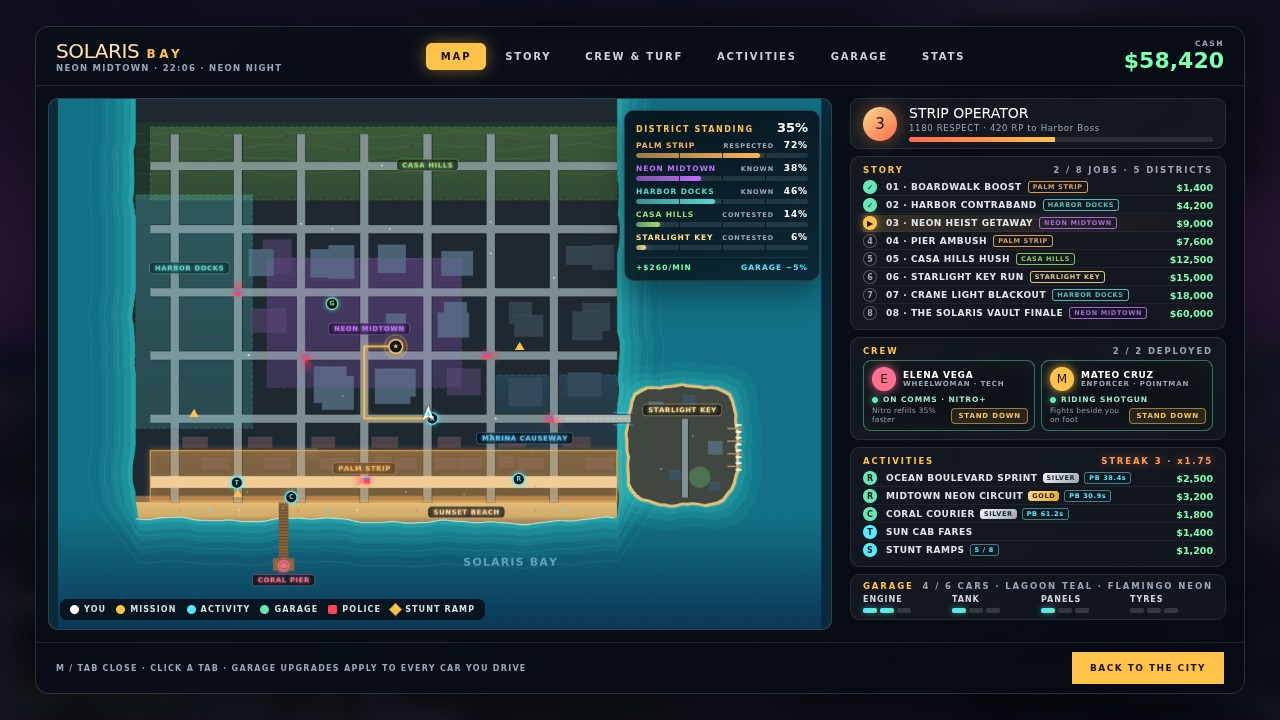
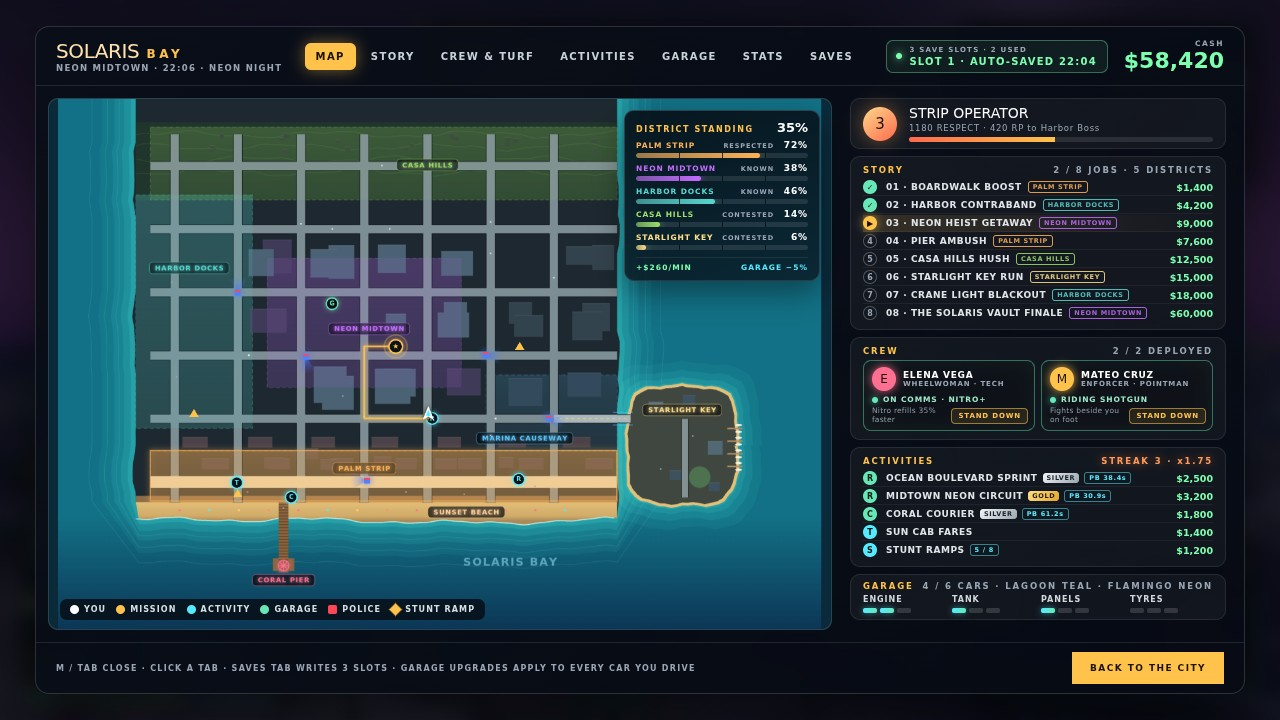
v8 (Opus 5.5): dossier import ordering surfaces missions/turf/save/progression/activities/citymenu/police inside 163KB cap + SAVES tab & 3-slot save pill in Shot 4 (20/20 E2E)

diff --git a/game/js/main.js b/game/js/main.js
@@ -1,28 +1,45 @@
-// main.js — boot, the fixed 60 Hz loop, input, follow camera and the title / play /
-// pause / city-menu state machine. It wires the renderer, city, traffic, police,
-// combat and cover, crew, turf, missions, side activities, progression, audio, HUD,
-// city menu, named save slots and photo mode together; nothing here reaches the network.
+// main.js — SOLARIS BAY: boot, the fixed 60 Hz loop, input, the follow camera and the
+// title / play / pause / city-menu state machine. Nothing here or below reaches the network.
+//
+// Subsystems, one module each (all plain ES modules under game/js/):
+//   missions.js     eight-job story arc across five districts: steps, dialogue, rewards
+//   turf.js         five-district standing (CONTESTED to CONTROLLED), cash per minute, garage discount
+//   save.js         three named localStorage slots plus an autosave; manual save, load and delete
+//   progression.js  five street ranks, garage upgrades, Paint Shop colours, neon underglow, collection
+//   activities.js   street races, Coral Courier, Sun Cab fares, stunt ramps, medals and streaks
+//   citymenu.js     M / Tab city map with District Standing, story, crew, activities, garage, stats, saves
+//   police.js       five-star SBPD response: chasing cruisers, officers, roadblocks, flares, Air One chopper
+//   crew.js         Elena (comms perks) and Mateo (on-foot wingman with covering fire)
+//   combat.js       fists, pistol, SMG, shotgun; Q / C low cover with peek-and-fire; characters
+//   vehicles.js     clearcoat car meshes, handling, nitro, handbrake drift, tyre smoke; theft in main.js
+//   traffic.js      ambient cars that yield to sirens and pedestrians that cower or flee
+//   audio.js        procedural WebAudio: three FM stations, engine, sirens, dispatch, gunfire
+//   hud.js, minimap.js  HUD clusters, vector minimap with GPS route and police vision cones
+//   renderer3d.js, postfx.js, world.js  WebGL2 planar reflections, bloom, god rays; seven-district coastal city
+// Controls: WASD move or drive · mouse aim, left click fire · E / F steal or leave a car · Space jump /
+// handbrake · Shift sprint / nitro · Q / C cover · 1-4 weapons · X reload · T crew · R radio · H horn ·
+// M / Tab city menu · Esc or P pause to save and load.
 
 import { PALETTE, SAFEHOUSE, STEP, clamp, createRandom, lerp } from './config.js';
-import { createRenderer, cross3, normalize3 } from './renderer3d.js';
-import { createWorld } from './world.js';
-import { envAtHour, timeNameAt, clockAt } from './daycycle.js';
+import { createMissions, MISSIONS } from './missions.js';
+import { createTurf } from './turf.js';
+import { createSave, snapshot, applySnapshot, slotTime } from './save.js';
+import { createProgression } from './progression.js';
+import { createActivities } from './activities.js';
+import { createCameraRig } from './camera.js';
+import { createCityMenu } from './citymenu.js';
+import { createPolice } from './police.js';
+import { createCrew } from './crew.js';
+import { createCombat } from './combat.js';
 import { createVehicle, updateVehicle, tickTyreFx, skidMarks, tyreSmoke } from './vehicles.js';
 import { createTraffic } from './traffic.js';
-import { createPolice } from './police.js';
-import { createCombat } from './combat.js';
-import { createMissions, MISSIONS } from './missions.js';
-import { createActivities } from './activities.js';
-import { createProgression } from './progression.js';
-import { buildDynamicScene } from './scene.js';
-import { createCameraRig } from './camera.js';
 import { createAudio } from './audio.js';
 import { createHud } from './hud.js';
-import { createCityMenu } from './citymenu.js';
+import { envAtHour, timeNameAt, clockAt } from './daycycle.js';
+import { buildDynamicScene } from './scene.js';
 import { createShotStage } from './shotstage.js';
-import { createSave, snapshot, applySnapshot, slotTime } from './save.js';
-import { createCrew } from './crew.js';
-import { createTurf } from './turf.js';
+import { createRenderer, cross3, normalize3 } from './renderer3d.js';
+import { createWorld } from './world.js';
 
 const canvas = document.getElementById('game');
 const params = new URLSearchParams(window.location.search);
@@ -169,7 +186,12 @@ const crew = createCrew({ world, combat, police, bus });
 const missions = createMissions({ world, combat, police, bus, turf });
 const progression = createProgression({ combat, bus, turf });
 const activities = createActivities({ combat, bus, progression, turf });
-const cityMenu = createCityMenu({ painter: hud.painter, missions, activities, progression, combat, police, crew, turf });
+// The manual slot this session last saved to or loaded from; the city menu's save pill names it.
+let activeSlot = '1';
+const cityMenu = createCityMenu({
+  painter: hud.painter, missions, activities, progression, combat, police, crew, turf,
+  saves: () => ({ list: game.stagedSaves ?? save.list(), active: activeSlot, time: slotTime }),
+});
 
 const game = {
   renderer, world, audio, combat, traffic, police, missions, activities, progression, hud, save, crew, turf,
@@ -395,6 +417,8 @@ function loadSlot(slot) {
   rig.yaw = Math.PI;
   rig.pitch = 0.17;
   deathHandled = false;
+  if (slot !== 'auto') activeSlot = slot;
+  cityMenu.hide();
   mode = 'playing';
   hud.showPause(false);
   hud.showSlots(false);
@@ -496,11 +520,14 @@ function handleAction(action, data) {
       break;
     case 'saveSlot': {
       if (save.write(data.slot, snapshot(game))) {
+        activeSlot = data.slot;
+        game.stagedSaves = null;
         hud.notify(`Saved to slot ${data.slot}`, 'mission', 2500);
       } else {
         hud.notify('Could not save (storage blocked)', 'warn', 3000);
       }
       refreshPauseSlots();
+      if (cityMenu.open) cityMenu.render(liveMapState());
       refreshTitle();
       break;
     }

diff --git a/game/js/citymenu.js b/game/js/citymenu.js
@@ -3,8 +3,10 @@
 // the crew roster (deploy / stand down, perks, live status) with turf detail, side
 // activities (medals, personal bests and the live streak multiplier), the Safehouse Garage
 // (upgrades bought with cash and discounted by turf, the Paint Shop and neon underglow
-// selectors, the stolen-car collection) and lifetime stats with the rank ladder's milestone
-// rewards. Opening it pauses the city; buttons route through the HUD's data-action
+// selectors, the stolen-car collection), the save slots (three manual slots plus the
+// autosave, save / load from the menu) and lifetime stats with the rank ladder's milestone
+// rewards. A save pill beside the cash shows the active slot and the last autosave and jumps
+// to the SAVES tab. Opening it pauses the city; buttons route through the HUD's data-action
 // handler to main.js.
 
 import { MISSIONS } from './missions.js';
@@ -17,7 +19,7 @@ const money = (n) => `$${Number(Math.round(n)).toLocaleString('en-US')}`;
 const hexCss = (hex) => `#${hex.toString(16).padStart(6, '0')}`;
 const districtLabel = (id) => (TURF.find((d) => d.id === id) ?? DISTRICTS.find((d) => d.id === id))?.name ?? '';
 
-export function createCityMenu({ painter, missions, activities, progression, combat, police, crew, turf }) {
+export function createCityMenu({ painter, missions, activities, progression, combat, police, crew, turf, saves }) {
   const root = document.getElementById('cityMenu');
   const canvas = document.getElementById('cityMapCanvas');
   const side = document.getElementById('cmSide');
@@ -163,8 +165,40 @@ export function createCityMenu({ painter, missions, activities, progression, com
     return `${rankCard()}<div class="cm-card"><h4>CAREER</h4><div class="cm-stats">${rows}</div></div><div class="cm-card"><h4>STREET RANKS<em>MILESTONE REWARDS</em></h4><ul class="cm-list">${ladder}</ul></div>`;
   }
 
+  /** The header pill: active manual slot, last autosave time and the slot count. */
+  function savePill() {
+    const pill = document.getElementById('cmSave');
+    if (!pill || !saves) return;
+    const { list, active, time } = saves();
+    const auto = list.find((s) => s.slot === 'auto');
+    const used = list.filter((s) => s.slot !== 'auto' && s.exists).length;
+    const status = auto?.exists ? `AUTO-SAVED ${time(auto.savedAt).split(' ').pop()}` : 'NOT SAVED YET';
+    pill.querySelector('b').textContent = `SLOT ${active} · ${status}`;
+    pill.querySelector('span').textContent = `3 SAVE SLOTS · ${used} USED`;
+    pill.classList.toggle('on', tab === 'saves');
+  }
+
+  /** SAVES tab: the autosave and the three named slots, each saveable and loadable here. */
+  function savesDetail() {
+    const { list, active, time } = saves();
+    const rows = list.map((s) => {
+      const manual = s.slot !== 'auto';
+      const meta = s.exists
+        ? `<small>${s.district} · ${s.progress}/${s.total} jobs${s.storyComplete ? ' · complete' : ''} · ${money(s.cash)}${s.crew.length ? ` · crew ${s.crew.map((id) => id[0].toUpperCase() + id.slice(1)).join(' & ')}` : ''}</small><small>${time(s.savedAt)}</small>`
+        : `<small>${manual ? 'Empty · save here to keep this run' : 'Written on every new game, finished job and garage restyle'}</small>`;
+      const mark = manual ? s.slot : 'A';
+      const tag = manual && s.slot === active ? '<i class="cm-pb">ACTIVE</i>' : '';
+      const buttons = `${manual ? `<button data-action="saveSlot" data-slot="${s.slot}">${s.exists ? 'OVERWRITE' : 'SAVE'}</button>` : ''}<button data-action="loadSlot" data-slot="${s.slot}" ${s.exists ? '' : 'disabled'}>LOAD</button>`;
+      return `<li><span class="st ${s.exists ? 'done' : 'locked'}">${mark}</span><span class="nm">${s.label}${tag}${s.exists ? `<small class="cm-slot-name">${s.name}</small>` : ''}${meta}</span><span class="cm-slot-btns">${buttons}</span></li>`;
+    }).join('');
+    return `<div class="cm-card"><h4>SAVE SLOTS<em>3 SLOTS + AUTOSAVE · LOCALSTORAGE</em></h4><ul class="cm-list cm-saves">${rows}</ul></div>
+      <div class="cm-card"><div class="cm-rank-next">Saves stay in this browser. Esc also pauses to save, load or delete, and the title screen's LOAD GAME lists every slot.</div></div>`;
+  }
+
   function renderSide() {
-    if (tab === 'story') {
+    if (tab === 'saves' && saves) {
+      side.innerHTML = savesDetail();
+    } else if (tab === 'story') {
       side.innerHTML = `<div class="cm-card"><h4>THE SOLARIS BAY JOB<em>${missions.progress} / ${MISSIONS.length} JOBS</em></h4><ul class="cm-list cm-scroll">${storyRows(true)}</ul></div>`;
     } else if (tab === 'crew') {
       side.innerHTML = `${crewCard(true)}${turfDetail()}`;
@@ -186,6 +220,7 @@ export function createCityMenu({ painter, missions, activities, progression, com
       turfBox.classList.toggle('hidden', tab === 'crew');
       turfBox.innerHTML = turfBars(false);
     }
+    savePill();
   }
 
   /** Redraw the map and the side panel from the live state. */

diff --git a/game/styles.css b/game/styles.css
@@ -290,18 +290,30 @@ canvas#game { position: fixed; inset: 0; width: 100%; height: 100%; display: blo
   border: 1px solid rgba(255, 255, 255, 0.15); border-radius: 14px; overflow: hidden;
   box-shadow: 0 30px 80px rgba(0, 0, 0, 0.55); backdrop-filter: blur(12px);
 }
-.cm-head { display: flex; align-items: center; gap: 22px; padding: 12px 20px; border-bottom: 1px solid rgba(255, 255, 255, 0.1); }
+.cm-head { display: flex; align-items: center; gap: 16px; padding: 12px 20px; border-bottom: 1px solid rgba(255, 255, 255, 0.1); }
 .cm-brand { display: flex; flex-direction: column; }
 .cm-logo { font-family: var(--display); font-size: 20px; letter-spacing: -0.02em; color: #ffe1ad; }
 .cm-logo b { font-size: 12px; letter-spacing: 0.3em; margin-left: 7px; color: var(--gold); }
 .cm-sub { font-size: 8.5px; letter-spacing: 0.15em; color: var(--muted); font-weight: 800; text-transform: uppercase; }
 .cm-tabs { display: flex; gap: 4px; flex: 1; justify-content: center; }
 .cm-tabs button {
-  pointer-events: auto; cursor: pointer; font: inherit; font-size: 10px; font-weight: 800; letter-spacing: 0.18em;
-  color: #c9d2d8; background: transparent; border: 1px solid transparent; border-radius: 6px; padding: 7px 14px;
+  pointer-events: auto; cursor: pointer; font: inherit; font-size: 10px; font-weight: 800; letter-spacing: 0.14em; white-space: nowrap;
+  color: #c9d2d8; background: transparent; border: 1px solid transparent; border-radius: 6px; padding: 7px 10px;
 }
 .cm-tabs button.on { color: #1a1005; background: var(--gold); box-shadow: 0 0 16px rgba(255, 194, 75, 0.45); }
 .cm-wallet { text-align: right; }
+.cm-save {
+  pointer-events: auto; cursor: pointer; font: inherit; text-align: left; white-space: nowrap; display: flex; flex-direction: column; gap: 2px;
+  padding: 5px 10px 5px 22px; border-radius: 7px; position: relative; color: #e8f6f2;
+  background: rgba(125, 255, 176, 0.07); border: 1px solid rgba(125, 255, 176, 0.35);
+}
+.cm-save::before { content: ''; position: absolute; left: 9px; top: 50%; width: 6px; height: 6px; margin-top: -3px; border-radius: 50%; background: #7dffb0; box-shadow: 0 0 8px #7dffb0; }
+.cm-save span { font-size: 7px; letter-spacing: 0.18em; color: var(--muted); font-weight: 800; }
+.cm-save b { font-size: 10px; letter-spacing: 0.12em; font-weight: 900; color: #7dffb0; }
+.cm-save:hover, .cm-save.on { background: rgba(125, 255, 176, 0.16); border-color: #7dffb0; }
+.cm-saves li { padding: 5px 0; }
+.cm-saves .cm-slot-name { color: #e8e4da; font-weight: 800; }
+.cm-slot-btns { display: flex; gap: 5px; flex: none; }
 .cm-wallet span { display: block; font-size: 7.5px; letter-spacing: 0.2em; color: var(--muted); font-weight: 800; }
 .cm-wallet b { font-family: var(--display); font-size: 22px; color: #7dffb0; }
 .cm-body { flex: 1; display: grid; grid-template-columns: 1fr 400px; min-height: 0; }

diff --git a/game/index.html b/game/index.html
@@ -117,7 +117,9 @@
         <button data-action="menuTab" data-tab="activities">ACTIVITIES</button>
         <button data-action="menuTab" data-tab="garage">GARAGE</button>
         <button data-action="menuTab" data-tab="stats">STATS</button>
+        <button data-action="menuTab" data-tab="saves">SAVES</button>
       </nav>
+      <button class="cm-save" id="cmSave" data-action="menuTab" data-tab="saves" aria-label="Save slots"><span>SAVE · 3 SLOTS</span><b>SLOT 1 · NOT SAVED YET</b></button>
       <div class="cm-wallet"><span>CASH</span><b id="cmCash">$0</b></div>
     </div>
     <div class="cm-body">
@@ -131,7 +133,7 @@
       </div>
       <div class="cm-side" id="cmSide"></div>
     </div>
-    <div class="cm-foot"><span>M / TAB CLOSE · CLICK A TAB · GARAGE UPGRADES APPLY TO EVERY CAR YOU DRIVE</span><button class="modal-btn" data-action="closeMenu">BACK TO THE CITY</button></div>
+    <div class="cm-foot"><span>M / TAB CLOSE · CLICK A TAB · SAVES TAB WRITES 3 SLOTS · GARAGE UPGRADES APPLY TO EVERY CAR YOU DRIVE</span><button class="modal-btn" data-action="closeMenu">BACK TO THE CITY</button></div>
   </div>
 </div>
 
@@ -149,7 +151,7 @@
       <div class="menu">
         <button class="menu-btn primary" data-action="new"><span class="btn-index">01</span><span class="btn-label">NEW GAME</span><span class="btn-arrow">→</span></button>
         <button class="menu-btn" data-action="continue" id="continueBtn"><span class="btn-index">02</span><span class="btn-label">CONTINUE SAVE</span><span class="btn-meta" id="continueMeta">NO SAVE FOUND</span></button>
-        <button class="menu-btn" data-action="loadMenu" id="loadMenuBtn"><span class="btn-index">03</span><span class="btn-label">LOAD GAME</span><span class="btn-meta" id="loadMenuMeta">3 SLOTS + AUTOSAVE</span></button>
+        <button class="menu-btn" data-action="loadMenu" id="loadMenuBtn"><span class="btn-index">03</span><span class="btn-label">LOAD GAME</span><span class="btn-meta" id="loadMenuMeta">3 SAVE SLOTS + AUTOSAVE</span></button>
         <button class="menu-btn" data-action="controls"><span class="btn-index">04</span><span class="btn-label">CONTROLS &amp; CITY</span><span class="btn-arrow">→</span></button>
       </div>
       <div class="title-stats">

diff --git a/game/js/shotstage.js b/game/js/shotstage.js
@@ -555,6 +555,18 @@ function stageMenu() {
   progression.state.neon = 'pink';
   stageCareer(2, { palm: 72, harbor: 46, midtown: 38, hills: 14, key: 6 });
   crew.mateo.status = 'RIDING SHOTGUN';
+  // The save pill and SAVES tab read these staged slots, so photo mode never writes to the
+  // visitor's localStorage. Timestamps are fixed local times, the same on every capture.
+  const at = (h, m) => new Date(2026, 10, 20, h, m).getTime();
+  const slot = (id, label, savedAt, name, district, progress, cash, crewIds) => ({
+    slot: id, label, exists: !!savedAt, savedAt, name, district, progress, total: 8, cash, crew: crewIds, storyComplete: false,
+  });
+  game.stagedSaves = [
+    slot('auto', 'AUTOSAVE', at(22, 4), '03 · Neon Heist Getaway', 'Neon Midtown', 2, 58420, ['elena', 'mateo']),
+    slot('1', 'SLOT 1', at(21, 58), '03 · Neon Heist Getaway', 'Palm Strip', 2, 57900, ['elena', 'mateo']),
+    slot('2', 'SLOT 2', at(19, 31), '02 · Harbor Contraband', 'Harbor Docks', 1, 21350, ['elena']),
+    slot('3', 'SLOT 3', 0, '', 'Palm Strip', 0, 0, []),
+  ];
   const hero = driveHero('supercar', 132, 120, Math.PI, 0, { body: rgb(0x27e2d2), accent: rgb(0xff3f95) });
   const p = combat.player;
   p.x = hero.x; p.z = hero.z; p.heading = hero.heading;

diff --git a/game/js/hud.js b/game/js/hud.js
@@ -165,7 +165,7 @@ export function createHud({ onAction, world }) {
       els.continueBtn.disabled = !info.hasSave;
       setText(els.continueMeta, info.hasSave ? info.saveLabel ?? 'LATEST SAVE' : 'NO SAVE FOUND');
     }
-    if (els.loadMenuMeta) setText(els.loadMenuMeta, `${info.slotsUsed ?? 0} / 4 SLOTS USED`);
+    if (els.loadMenuMeta) setText(els.loadMenuMeta, `3 SAVE SLOTS + AUTOSAVE · ${info.slotsUsed ?? 0} USED`);
     if (info.storyComplete) setText(els.titleProgress, `${total} / ${total}`);
   }
 

diff --git a/README.md b/README.md
@@ -18,8 +18,8 @@ What you can do:
 - **Progression** (`progression.js`). Respect earns five ranks from Beach Rat to Bay Kingpin. Each promotion pays a cash milestone ($2,000 up to $25,000) and unlocks Paint Shop colours and neon underglow kits. Cash buys four three-stage garage upgrades that tune every car you drive. Storing a stolen model in the Safehouse Garage adds it to the collection.
 - **Paint Shop and underglow.** The `GARAGE` tab of the city menu has a live paint selector (seven colours) and a neon underglow selector (five kits plus off). A choice restyles the car you are driving at once and goes into the `localStorage` autosave. Higher-rank colours stay locked until you reach that rank.
 - **Streaks and medals.** Back-to-back activity clears without a failure raise a cash and respect multiplier, x1.25 per clear up to x2. Every best time earns a gold, silver or bronze medal against the activity's par. The menu and the activity timer show the streak, medals and personal bests.
-- **City menu** (`M`/`Tab`, `citymenu.js`). A full vector map with every blip and a District Standing panel, plus tabs for the eight-job story, crew and turf, activities, the garage and career stats.
-- **Save slots** (`save.js`). Three named manual slots plus an autosave, all in `localStorage`. Each slot shows the job in progress, district, jobs done, cash, recruited crew and a timestamp. `Esc` pauses to save, overwrite, load or delete. The title screen's LOAD GAME lists every slot.
+- **City menu** (`M`/`Tab`, `citymenu.js`). A full vector map with every blip and a District Standing panel, plus tabs for the eight-job story, crew and turf, activities, the garage, career stats and save slots. A save pill beside the cash (`SLOT 1 · AUTO-SAVED 22:04`) names the active slot and the last autosave, and clicking it opens the `SAVES` tab.
+- **Save slots** (`save.js`). Three named manual slots plus an autosave, all in `localStorage`. The autosave is written on a new game, after every finished job and on a garage restyle. Each slot shows the job in progress, district, jobs done, cash, recruited crew and a timestamp. The city menu's `SAVES` tab saves to or loads any slot. `Esc` pauses to save, overwrite, load or delete. The title screen offers NEW GAME, CONTINUE SAVE and LOAD GAME, which lists every slot.
 - **Street chaos.** Handbrake slides lay dark rubber and boil tyre smoke. Nitro lights blue-orange afterburner plumes. After dark, headlights throw soft light cones onto the road. Clip a kerbside fire hydrant and it shears off into a geyser. Clip a street lamp at speed and it shears off in a burst of sparks, topples, goes dark and clangs onto the road.
 - **A city that reacts.** Close to gunfire some bystanders crouch with their hands over their heads while the rest run with their arms up. A three-star chase scatters the pavements as it passes. Traffic slows and pulls toward the kerb when a cruiser with its siren on comes within about 45 m.
 - **Radio and sound** (`audio.js`, all Web Audio, nothing downloaded). `R` cycles Sunset FM 96.6 (warm synthwave arpeggios over kick and snare), Palm Pulse 104.2 (tropical bassline, electric-piano chords, marimba and shaker) and Midnight Drive 88.8 (dark outrun lead over sub-bass). The engine note follows the revs through five gears. The tyres screech on the handbrake. The nearest siren is panned to its side and Doppler-shifted as it passes. Dispatch calls break squelch with alert chirps and narrow-band chatter. Gunshots have a sharp crack, and lampposts clang. No AudioContext exists until the first click or key press.
@@ -30,6 +30,8 @@ Everything on screen is built in code. Hotels carry real neon lettering bent fro
 The sky (`renderer3d.js`) layers a tropical sunset by the sun's height: a molten gold horizon climbing through coral, rose and violet to indigo. Long stratus bands are backlit plum near the sun with hot rims and lit pink away from it. Soft crepuscular rays fan out from the sun, and a far-shore skyline silhouette with lit windows stands across the bay. Haze glows gold toward the sun and cools to rose-violet away from it. The city map paints an organic coastline with shallow-to-deep contours, a scalloped Sunset Beach, Starlight Key with its marina slips, and dashed district zones. The map is cached offscreen, so the minimap costs one blit per frame.
 
 The four screenshots are live 1280×720 frames of the game's own code in Chromium, staged with photo mode (`shotstage.js`, `?shot=start|chase|foot|menu`).
+
+The architecture overview at the top of `game/js/main.js` maps every subsystem to its module and lists the controls.
 
 ## Run it
 
